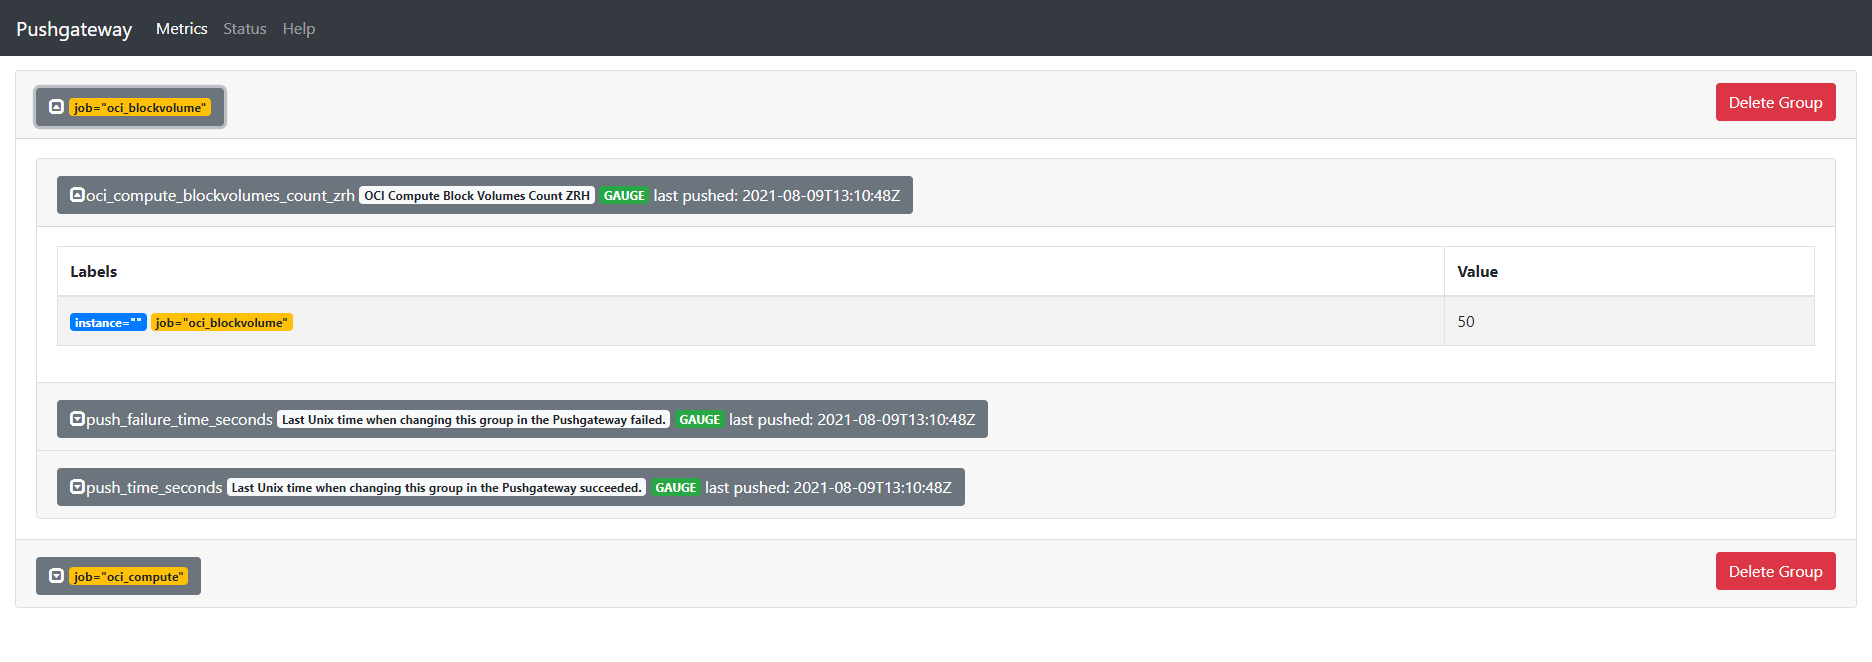
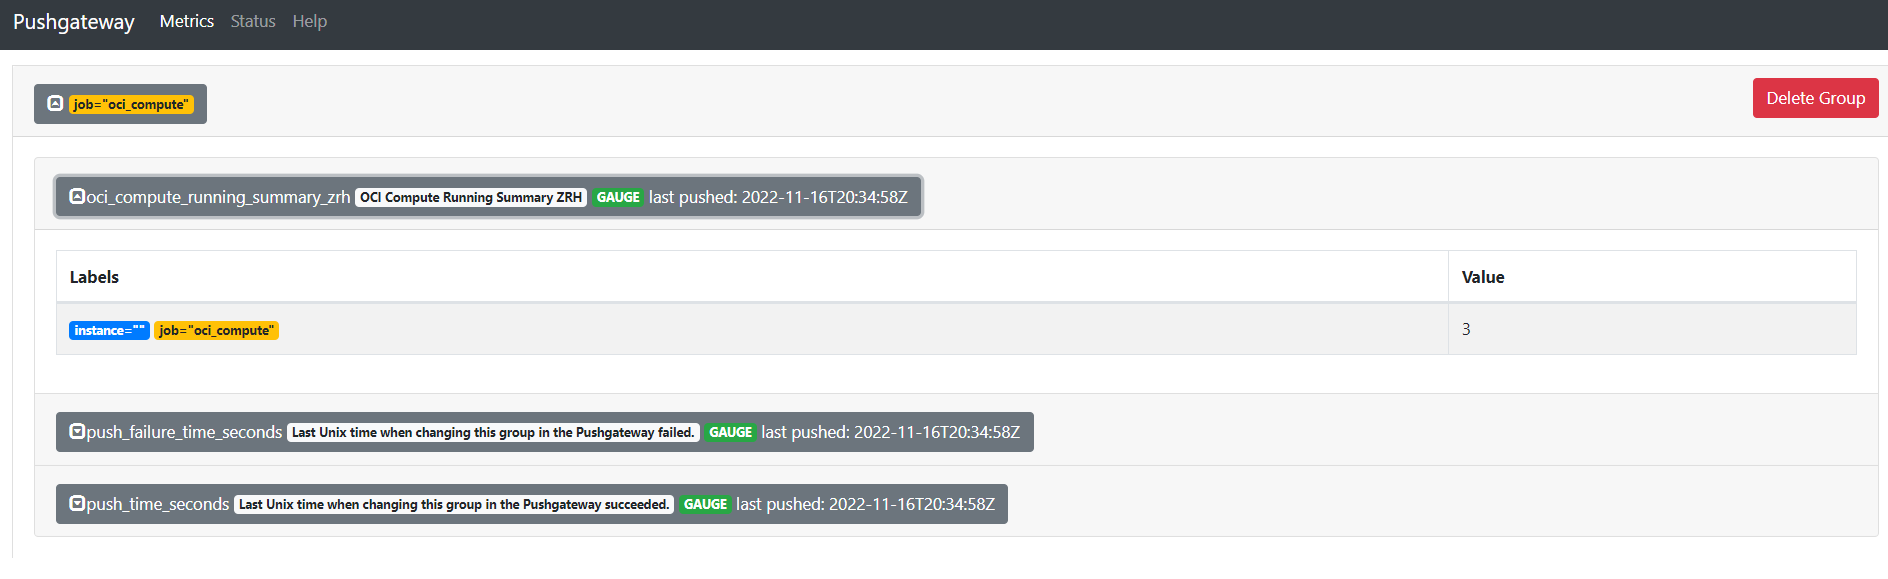
chnaged path

diff --git a/README.md b/README.md
@@ -225,7 +225,7 @@ bash -c "$(curl -L https://raw.githubusercontent.com/oracle/oci-cli/master/scrip
 ```
 
 ```bash
- oci --latest-version
+oci --latest-version
 ```
 
 ### Configure OCI CLI
@@ -306,12 +306,21 @@ cat /home/steampipe/.oci/oci_api_key_public.pem
 
 ![API Key](images/oci_api_key.jpg)
 
-Verify the functionality of the OCI CLI - get Oracle Cloud Infrastructure Object Storage namespace name:
+Verify the functionality of the OCI CLI - get Oracle Cloud Infrastructure list of subscribed regions:
 
 ```bash
-oci os ns get
+oci iam region-subscription list
+
 {
-  "data": "<your-namespace-here>"
+  "data": [
+    {
+      "is-home-region": true,
+      "region-key": "ZRH",
+      "region-name": "eu-zurich-1",
+      "status": "READY"
+    }
+  ]
+
 }
 ```
 
@@ -395,75 +404,50 @@ Example query for any running Compute Instances in your defined region.
 
 ```bash
 # docker exec -it steampipe steampipe query "select display_name,shape,region from oci_core_instance where lifecycle_state='RUNNING';"
-+-----------------------------------+------------------------+----------------+
-| display_name                      | shape                  | region         |
-+-----------------------------------+------------------------+----------------+
-| Instance-DB-1                     | VM.Standard1.2         | eu-frankfurt-1 |
-| Instance-AS-1                     | VM.Standard1.1         | eu-frankfurt-1 |
-+-----------------------------------+------------------------+----------------+
++-----------------------+---------------------+-------------+
+| display_name          | shape               | region      |
++-----------------------+---------------------+-------------+
+| openvpn_access_server | VM.Standard.E2.1    | eu-zurich-1 |
+| ci-automation-manager | VM.Standard.E4.Flex | eu-zurich-1 |
+| ci-steampipe-v14      | VM.Standard.E4.Flex | eu-zurich-1 |
++-----------------------+---------------------+-------------+
 ```
 
 Example query for your home region:
 
 ```bash
 # docker exec -it steampipe steampipe query "select key,title,status from oci_region where is_home_region=true;"
-+-----+----------------+--------+
-| key | title          | status |
-+-----+----------------+--------+
-| FRA | eu-frankfurt-1 | READY  |
-+-----+----------------+--------+
++-----+-------------+--------+
+| key | title       | status |
++-----+-------------+--------+
+| ZRH | eu-zurich-1 | READY  |
++-----+-------------+--------+
+```
+
+Example query for MFA verification:
+
+```bash
+# docker exec -it steampipe steampipe query "select name, id, is_mfa_activated from oci_identity_user;"
++-----------------+------------------------+------------------+
+| name            | id                     | is_mfa_activated |
++-----------------+------------------------+------------------+
+| homer_simpson   | ocid1.user.oc1.aaaa... | false            |
+| lisa_simpson    | ocid1.user.oc1.aaaa... | true             |
+| ned_flanders    | ocid1.user.oc1.aaaa... | false            |
+| nelson_muntz    | ocid1.user.oc1.aaaa... | false            |
++-----------------+------------------------+------------------+
 ```
 
 Steampipe is now ready to gather data from the Oracle Cloud Infrastructure Account.
 
 ## Python Example Scripts
 
-In subdirectory of new add OS user steampipe _/home/steampipe/py_ there are two basic examples how to get the data from Steampipe PostgreSQL service in Python3 and push them to the Prometheus Pushgateway. Feel free to adapt the queries and files. You can verify the pushed data in browser by URL "http://your-public-ip:9091". If the port is not reachable, check your OCI Security List Ingress settings.
+In subdirectory of new add OS user steampipe _/home/steampipe/py_ there are two basic examples with pre-configured PostgreSQL connect string. There you can see how to get the data from Steampipe PostgreSQL service in Python3 and push them to the Prometheus Pushgateway. Feel free to adapt the queries and files. You can verify the pushed data in browser by URL "http://your-public-ip:9091". If the port is not reachable, check your OCI Security List Ingress settings.
 
-| Script                                 | Purpose                                              |   |   |   |
-|----------------------------------------|------------------------------------------------------|---|---|---|
-| pgsql-query-bv-zurich.py               | Summary of Block Volume in OCI Region Zurich         |   |   |   |
-| pgsql-query-ci-running-zurich.py       | Summary of running Instances in OCI Region Zurich    |   |   |   |
-
-
-Before you are able to connect, get as OS user root the Steampipe PostgreSQL connection details to get the connect string for the Python Scripts.
-
-```bash
-# docker exec -it steampipe steampipe service status --show-password
-Steampipe service is running:
-
-Database:
-
-  Host(s):            localhost, 127.0.0.1, 172.18.0.4
-  Port:               9193
-  Database:           steampipe
-  User:               steampipe
-  Password:           94d1_4249_874a
-  Connection string:  postgres://steampipe:94d1_4249_874a@localhost:9193/steampipe
-
-Managing the Steampipe service:
-
-  # Get status of the service
-  steampipe service status
-
-  # View database password for connecting from another machine
-  steampipe service status --show-password
-
-  # Restart the service
-  steampipe service restart
-
-  # Stop the service
-  steampipe service stop
-```
-
-Replace the line f'' in the scripts with your connect string.
-
-```bash
-# old:
-uri = f''
-# new:
-uri = f'postgres://steampipe:94d1_4249_874a@localhost:9193/steampipe' 
-```
+| Script                                    | Purpose                                              |   |   |   |
+|-------------------------------------------|------------------------------------------------------|---|---|---|
+| pgsql-example-block-volume-summary.py     | Summary of Block Volume in OCI Region Zurich         |   |   |   |
+| pgsql-example-compute-instance-running.py | Summary of available Instances in OCI Region Zurich  |   |   |   |
 
 Run the script as OS user _steampipe_, example.
 
@@ -471,26 +455,26 @@ Run the script as OS user _steampipe_, example.
 $ python3 pgsql-query-ci-running-zurich.py
 Connected to DB.
 Query ran
-0
+3
 Connection closed.
 ```
 
-If the result is pushed as a metric, can be verified on the Pushgateway homepage.
+The result is pushed as a metric, this can be verified on the Pushgateway homepage.
 
 ## Prometheus Push Gateway
 
-According the Python script, new data is loaded in Prometheus Push Gateway to port 9091 and scraped by Prometheus port 9090. Example for Protheus Gateway where data is loaded by jobs _oci_blockvolume_/_oci_compute_.
+According the Python script, new data is loaded in Prometheus Push Gateway to port 9091 and scraped by Prometheus port 9090. Example for Protheus Gateway where data is loaded by job _oci_compute_.
 
 ![OCI Prometheus Push Gateway 01](images/oci_pushgateway_01.png)
 
 ## Grafana
 
-Grafana is reachable by address _your-machine-ip:3000_.
+Grafana is reachable by "http://your-public-ip:3000".
 
 - Username: admin
 - Password: Welcome1
 
-The Prometheus data source and a basic dashboard are deployed during the Grafana Docker setup process. Example for dashboard _OCI Demo - eu-zurich-1_:
+The Prometheus data source and a basic dashboard are configured during the Grafana Docker setup process. Example for dashboard _OCI Demo - eu-zurich-1_:
 
 Prometheus data source:
 ![OCI Grafana 01](images/oci_grafana_01.png)
@@ -513,13 +497,21 @@ To verify if Steampipe is running properly:
 
 ### Steampipe Access Logs
 
-The foreign data wrapper logs are stored locally - not in the Docker container - in the directory _/home/steampipe/logs_:
+The foreign data wrapper logs are stored locally on the Docker volume:
 
 ```bash
-drwx------. 11 steampipe steampipe     173 Aug  9 17:18 ..
--rw-------.  1      9193 root       756701 Aug  9 19:57 database-2021-08-09.log
-drwxrwxr-x.  2 steampipe root           68 Aug 10 02:00 .
--rw-------.  1      9193 root      3411203 Aug 10 07:19 database-2021-08-10.log
+[root@ci-steampipe-v14 _data]# pwd
+/var/lib/docker/volumes/docker_steampipe_logs/_data
+
+[root@ci-steampipe-v14 _data]# ls -latr
+total 24
+-rw-r--r--. 1 steampipe root     0 Nov 10 22:39 plugin-2022-11-10.log
+-rw-------. 1 steampipe root  6114 Nov 10 22:39 database-2022-11-10.log
+drwx-----x. 3 root      root    19 Nov 16 20:18 ..
+-rw-r--r--. 1 steampipe root     0 Nov 16 20:19 plugin-2022-11-16.log
+drwxr-xr-x. 2 steampipe root   126 Nov 16 20:19 .
+-rw-------. 1 steampipe root 16177 Nov 16 20:34 database-2022-11-16.log
+
 ```
 
 ### Steampipe Restart
